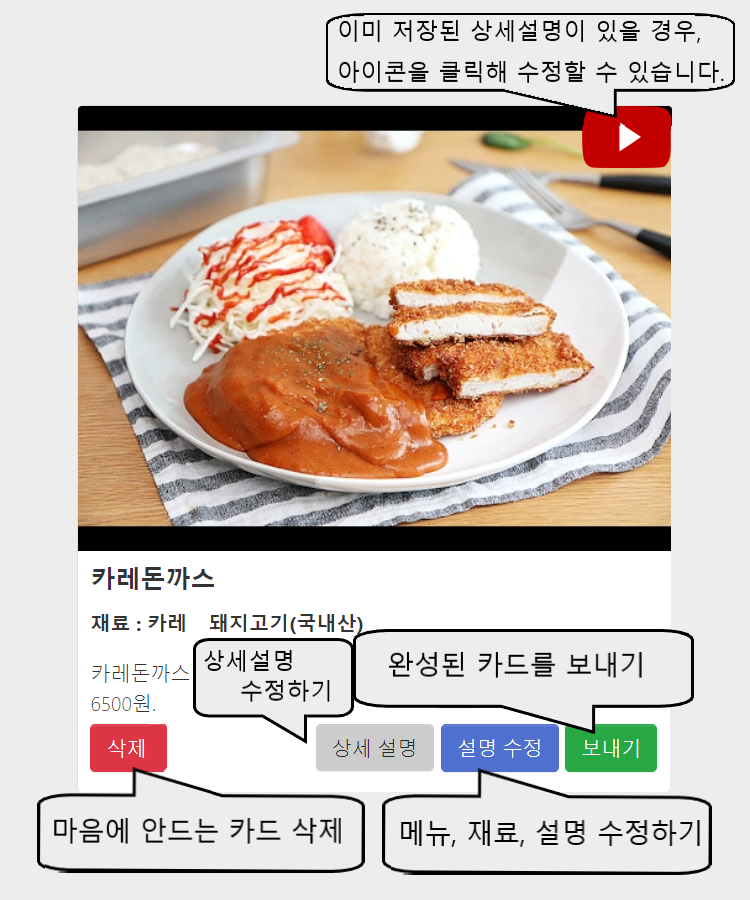
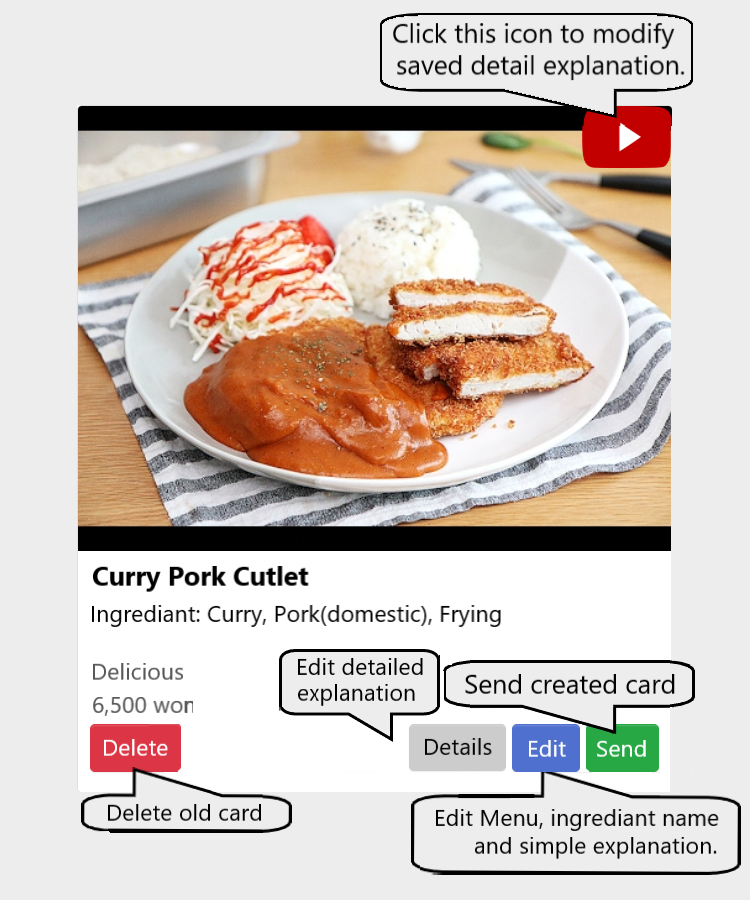
Add files via upload

Changed region(s): [[0.0307, 0.6222, 1.0, 0.9956], [0.4293, 0.0, 0.9813, 0.1244], [0.0613, 0.9644, 0.46, 0.9956]]

diff --git a/en/madeCard.html b/en/madeCard.html
@@ -542,7 +542,7 @@
                     <a style="font-weight: bold;"> Menu: </a> &nbsp; <input id="menu" type="text" style="width: 360px;" placeholder="Menu Name">
                 </h2>
                 <div style="text-align: left;">
-                    <p> <a style="font-weight: bold"> Menu: </a> &nbsp; <input type="text" id="ing1" style="width: 150px" placeholder="Ingredient 1"> &nbsp; <input type="text" id="ing2" style="width: 150px" placeholder="Ingredient 2"> &nbsp; <input type="text" id="ing3" style="width: 150px" placeholder="Ingredient 3"> </p>
+                    <p> <a style="font-weight: bold"> Ingr: </a> &nbsp; <input type="text" id="ing1" style="width: 150px" placeholder="Ingredient 1"> &nbsp; <input type="text" id="ing2" style="width: 150px" placeholder="Ingredient 2"> &nbsp; <input type="text" id="ing3" style="width: 150px" placeholder="Ingredient 3"> </p>
                     <textarea id="text" placeholder="Please write explanations." style="width: 574px; height: 480px; margin-bottom: 10px; padding-left: 5px; resize: none; font-size: 20px"></textarea>
                 </div>
                 <div style="text-align: center; color: white; margin-top: 1px; margin-bottom: 5px;">

diff --git a/makecard.html b/makecard.html
@@ -35,7 +35,7 @@
       <div class="row">
         <div class="col-md-8 mx-auto">
           <h1 class="mb-3">새로운 카드를 만들어보세요</h1>
-          <p class="lead mb-0">우리 가게가 고객과 지닌 추억들,<br>우리 가게가 음식에 쏟는 정성,<br>카드로 만들어 간직하세요.</p> <a class="btn btn-primary m-3" href="./makeRealCard.html">지금 만들기</a><img class="img-fluid d-block mx-auto" src="./pictures/card1.PNG" width="550">
+          <p class="lead mb-0">우리 가게가 고객과 지닌 추억들,<br>우리 가게가 음식에 쏟는 정성,<br>카드로 만들어 간직하세요.</p> <a class="btn btn-primary m-3" href="./makeRealCard.html">지금 만들기</a><img class="img-fluid d-block mx-auto" src="./pictures/card1.png" width="550">
         </div>
       </div>
     </div>

diff --git a/en/makecard.html b/en/makecard.html
@@ -35,7 +35,7 @@
       <div class="row">
         <div class="col-md-8 mx-auto">
           <h1 class="mb-3">Make a new card!</h1>
-          <p class="lead mb-0">The good ingredients<br>with explanations<br></p> <a class="btn btn-primary m-3" href="./makeRealCard.html"><b>Make it right now!</b></a><img class="img-fluid d-block mx-auto" src="./pictures/card1.PNG" width="550">
+          <p class="lead mb-0">The good ingredients<br>with explanations<br></p> <a class="btn btn-primary m-3" href="./makeRealCard.html"><b>Make it right now!</b></a><img class="img-fluid d-block mx-auto" src="./pictures/card1.png" width="550">
         </div>
       </div>
     </div>
